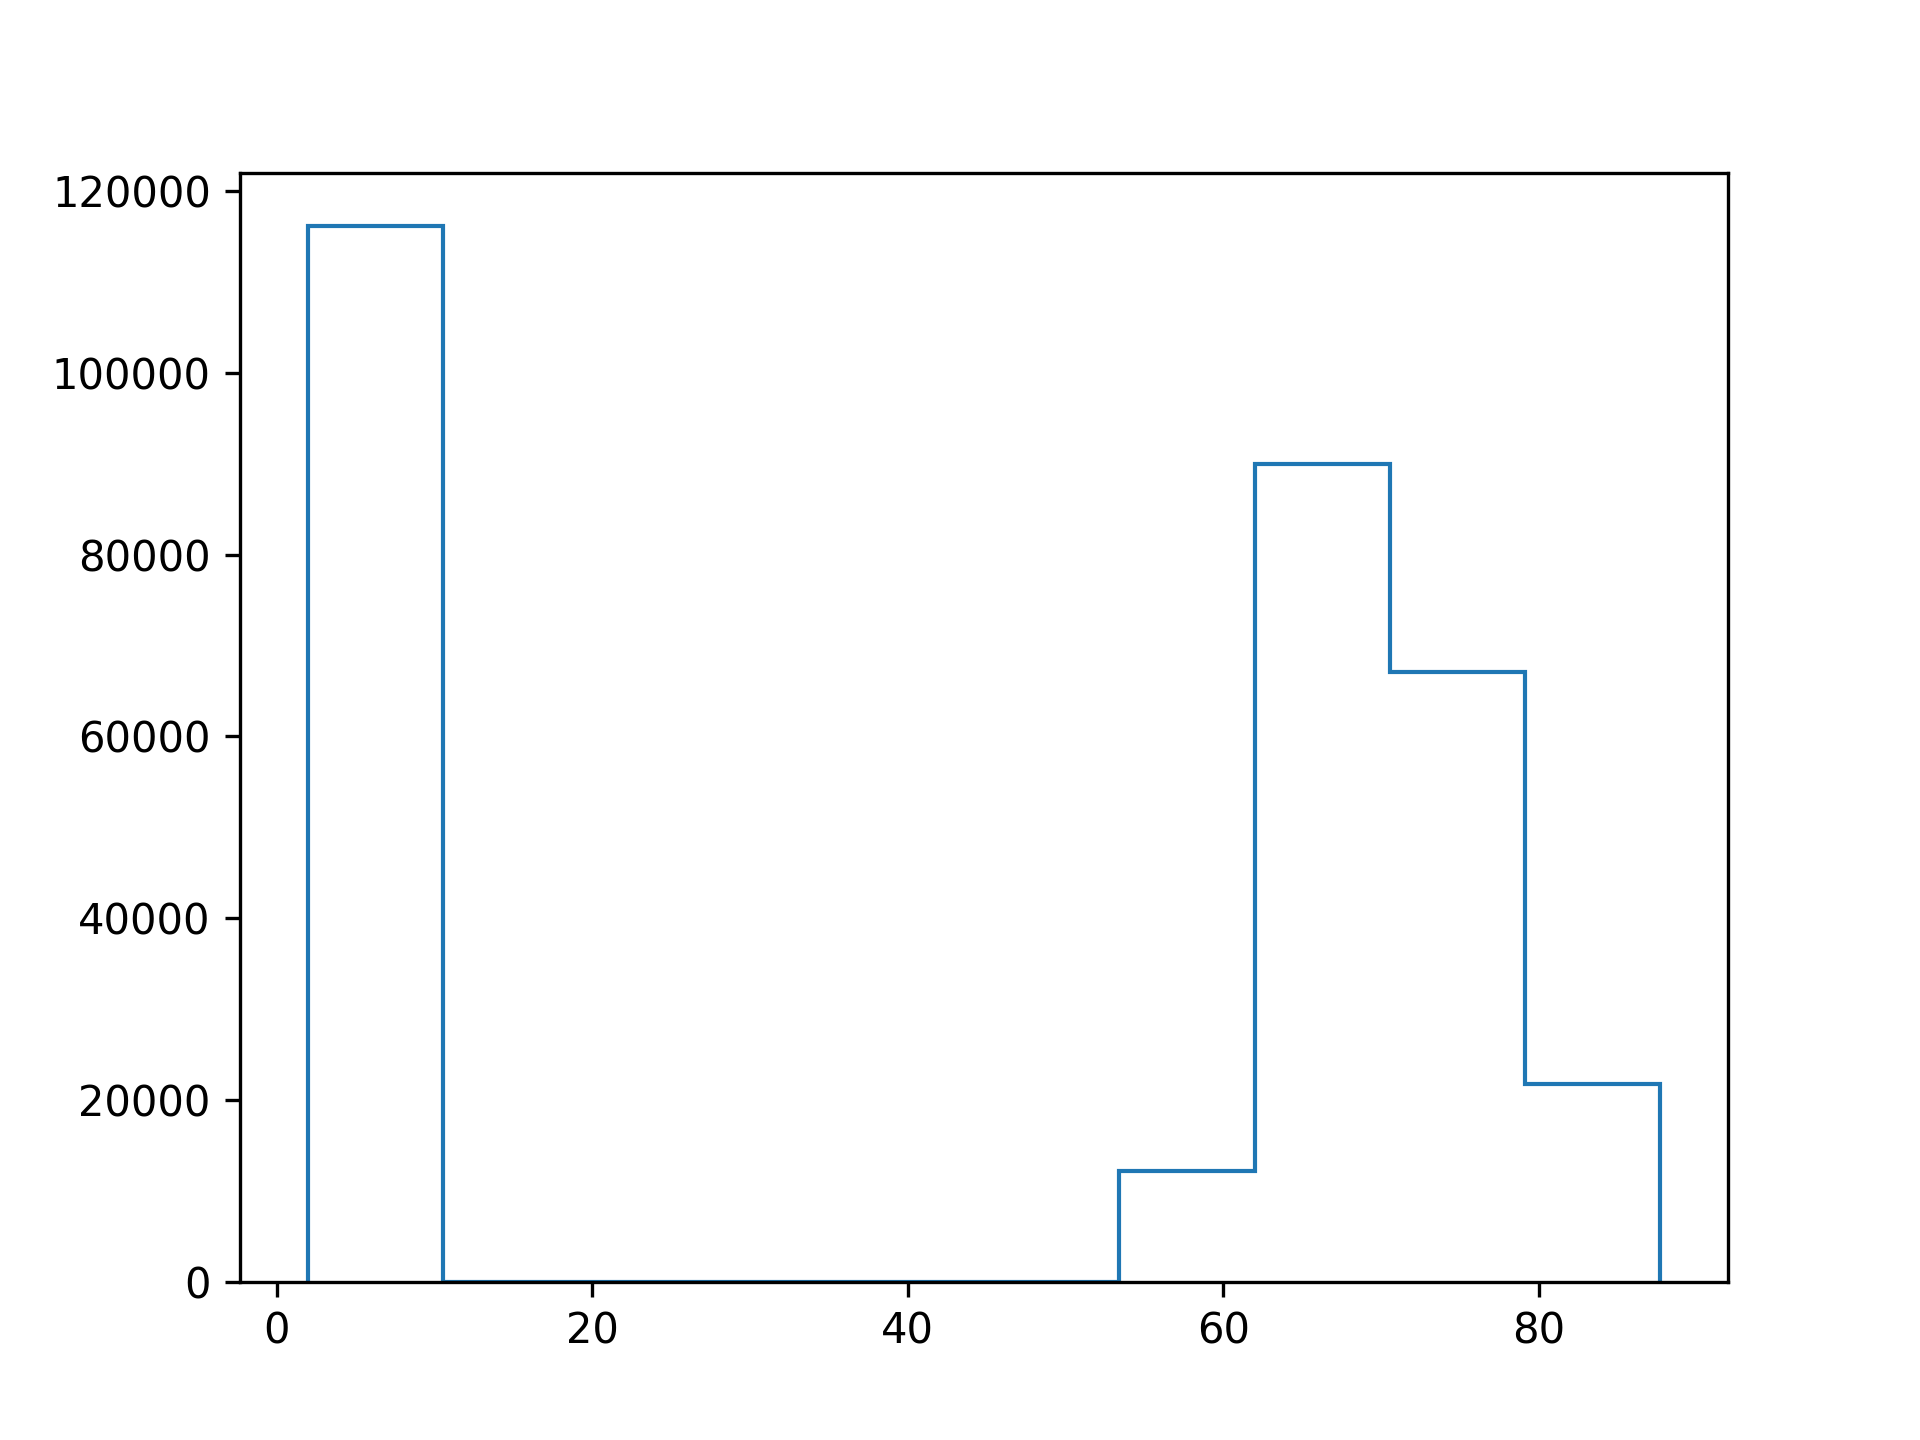
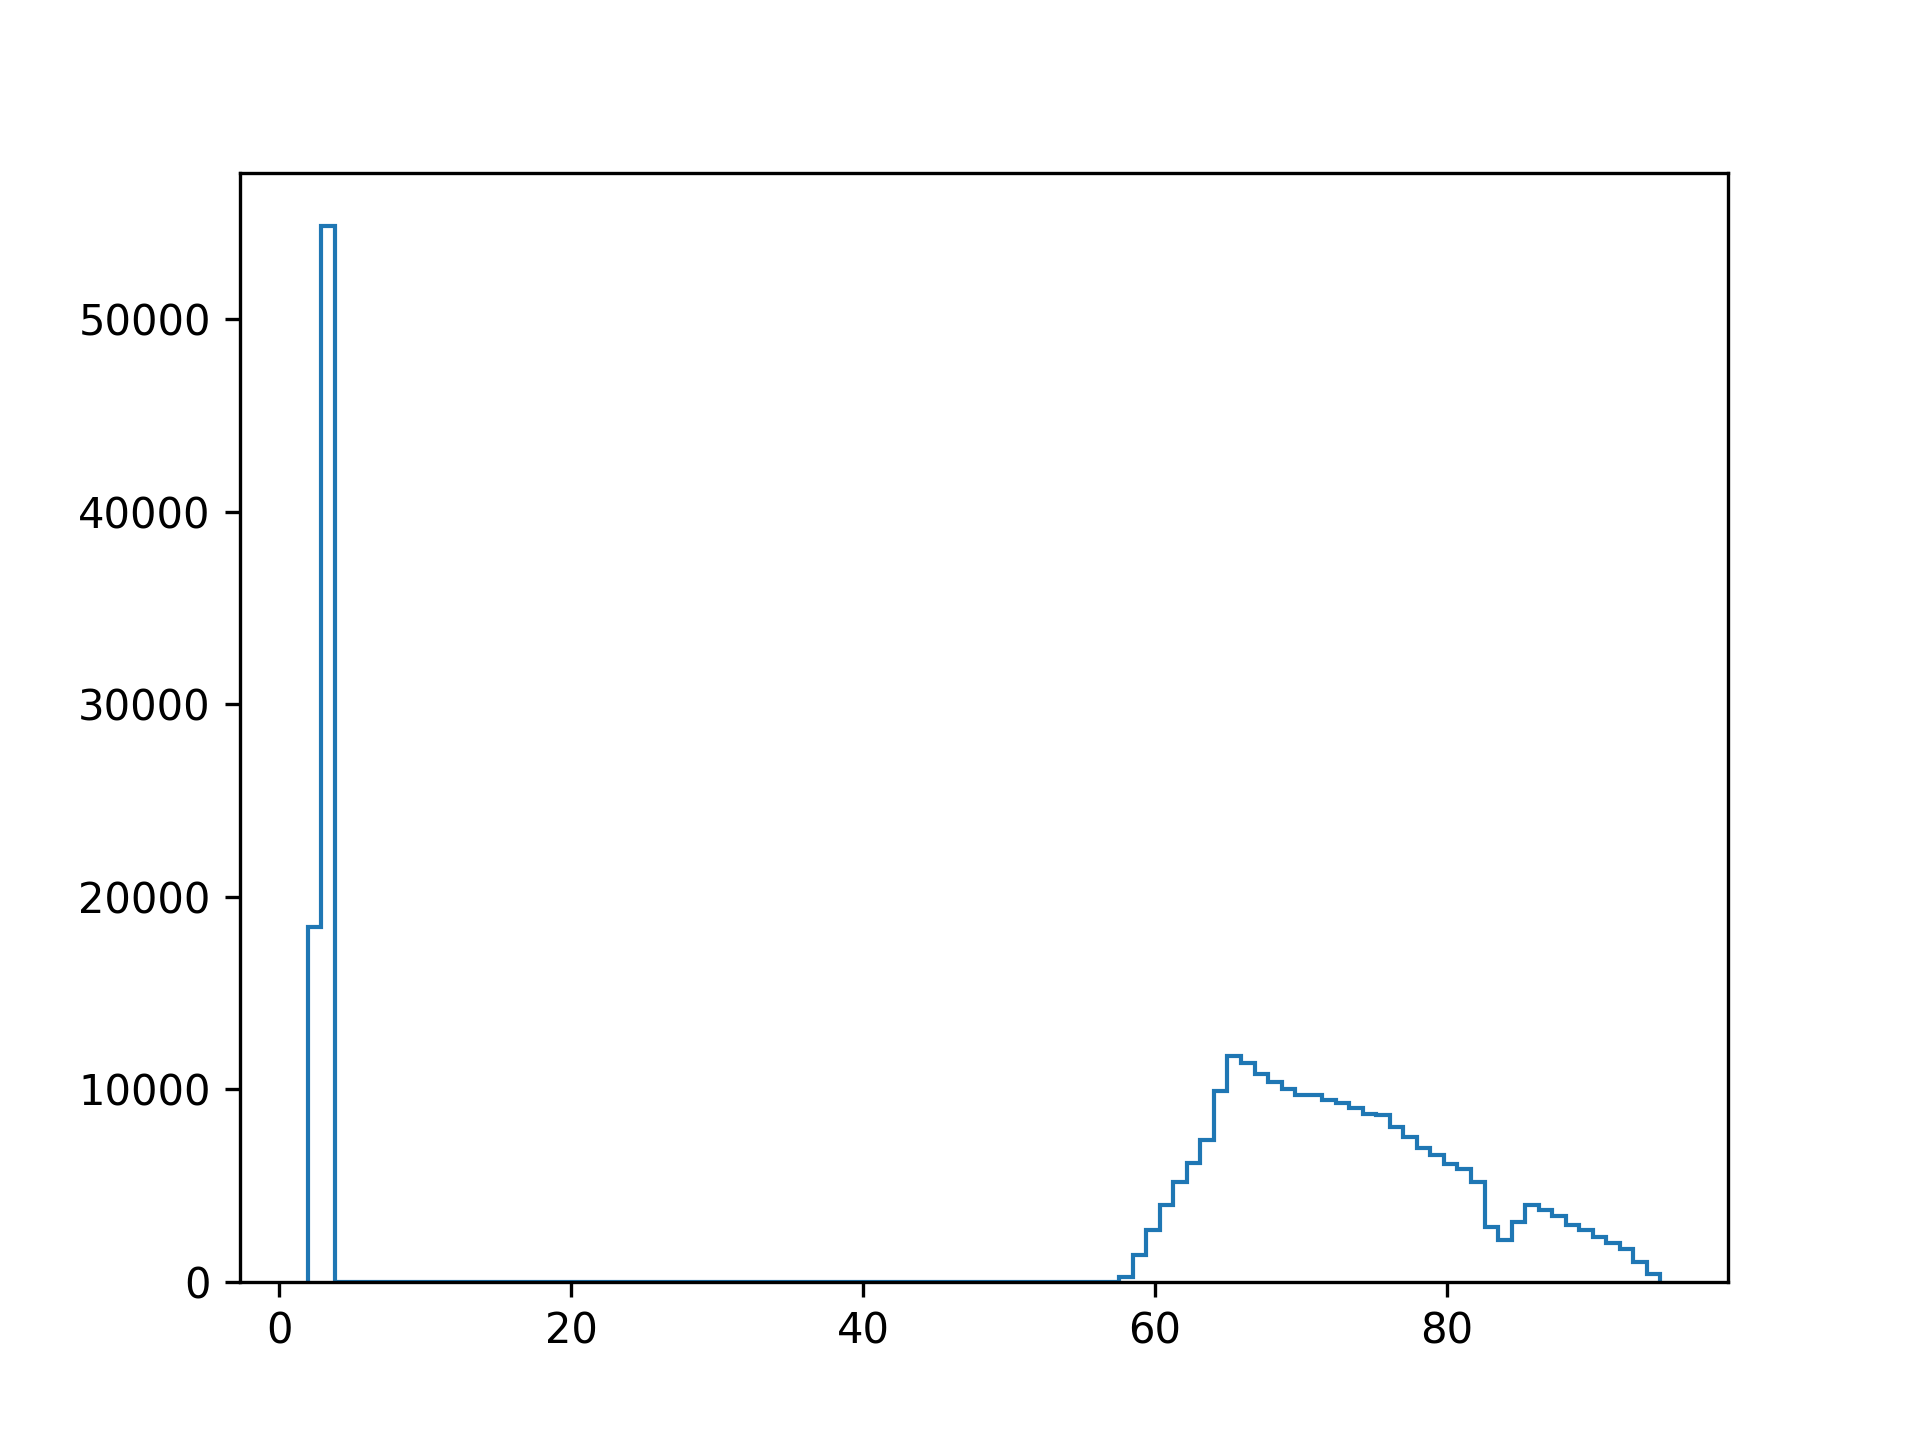
hist

diff --git a/third_test_point_cloud.py b/third_test_point_cloud.py
@@ -19,7 +19,7 @@ print(np.min(depth_map))
 print(np.mean(depth_map))
 
 data = depth_map.flatten()
-counts, bins = np.histogram(data)
+counts, bins = np.histogram(data, bins=100)
 plt.stairs(counts, bins)
 plt.savefig("hist.png", dpi=300)
 exit()
